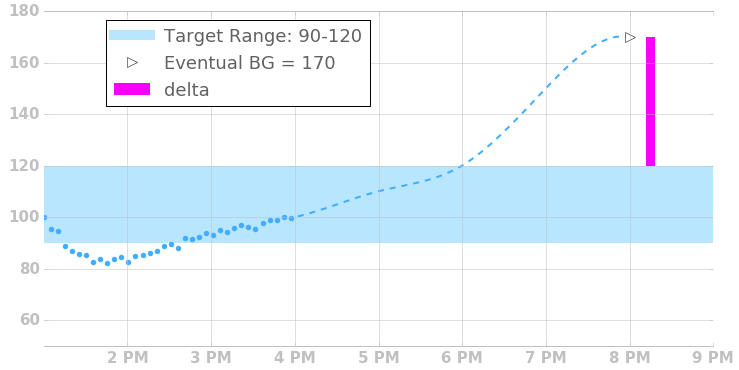
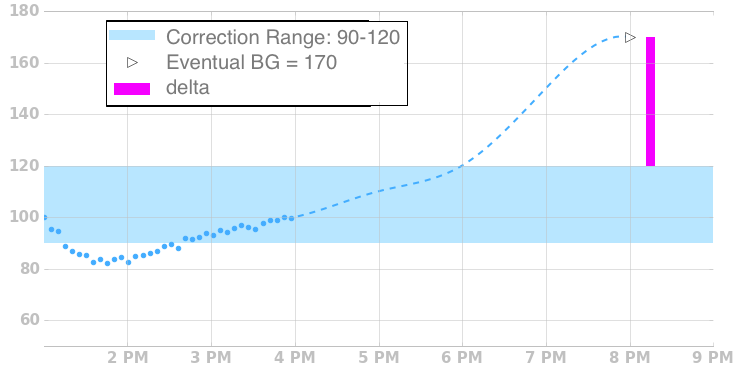
Deployed c67fe65 with MkDocs version: 0.16.2

Changed region(s): [[0.2179, 0.0595, 0.5602, 0.2676], [0.498, 0.2676, 0.5291, 0.2973], [0.498, 0.1486, 0.5291, 0.1784]]

diff --git a/operation/algorithm/temp_basal/index.html b/operation/algorithm/temp_basal/index.html
@@ -472,13 +472,13 @@
     
         <li class="main active"><a href="#temp-basal-adjustments">Temp Basal Adjustments</a></li>
         
-            <li><a href="#eventual-bg-above-target-range">Eventual BG Above Target Range</a></li>
+            <li><a href="#eventual-bg-above-correction-range">Eventual BG Above Correction Range</a></li>
         
-            <li><a href="#eventual-bg-below-target-range">Eventual BG Below Target Range</a></li>
+            <li><a href="#eventual-bg-below-correction-range">Eventual BG Below Correction Range</a></li>
         
             <li><a href="#temporary-excursion-below-range">Temporary Excursion Below Range</a></li>
         
-            <li><a href="#minimum-bg-below-minimum-bg-guard">Minimum BG Below Minimum BG Guard</a></li>
+            <li><a href="#minimum-bg-below-suspend-threshold">Minimum BG Below Suspend Threshold</a></li>
         
     
     </ul>
@@ -487,18 +487,18 @@
 
 <h1 id="temp-basal-adjustments">Temp Basal Adjustments<a class="headerlink" href="#temp-basal-adjustments" title="Permanent link">⌁</a></h1>
 <p>If blood glucose is predicted to stray outside of the desired target range, Loop will adjust the basal rate temporarily in an attempt to keep actual blood glucose in range.  To illustrate how it does this, we’ll go through a few examples.</p>
-<h3 id="eventual-bg-above-target-range">Eventual BG Above Target Range<a class="headerlink" href="#eventual-bg-above-target-range" title="Permanent link">⌁</a></h3>
+<h3 id="eventual-bg-above-correction-range">Eventual BG Above Correction Range<a class="headerlink" href="#eventual-bg-above-correction-range" title="Permanent link">⌁</a></h3>
 <p><img alt="Eventual BG Above Range" src="../img/eventual_bg_above_range.png" /></p>
-<p>When eventual BG is predicted to go above the current target range, Loop will calculate a delta from eventual bg to the midpoint of the target range.  Using the currently scheduled insulin sensitivity factor, loop calculates a temporary basal rate above your currently scheduled basal rate that would deliver, over 30 minutes, enough insulin to bring glucose levels back into range, capped at the max basal rate.</p>
-<h3 id="eventual-bg-below-target-range">Eventual BG Below Target Range<a class="headerlink" href="#eventual-bg-below-target-range" title="Permanent link">⌁</a></h3>
+<p>When eventual BG is predicted to go above the current correction range, Loop will calculate a delta from eventual bg to the midpoint of the correction range.  Using the currently scheduled insulin sensitivity factor, loop calculates a temporary basal rate above your currently scheduled basal rate that would deliver, over 30 minutes, enough insulin to bring glucose levels back into range, capped at the max basal rate.</p>
+<h3 id="eventual-bg-below-correction-range">Eventual BG Below Correction Range<a class="headerlink" href="#eventual-bg-below-correction-range" title="Permanent link">⌁</a></h3>
 <p><img alt="Eventual BG Below Range" src="../img/eventual_bg_below_range.png" /></p>
-<p>When eventual BG is predicted to go below the current target range, Loop will calculate a delta from eventual bg to the midpoint of the target range.  Using the currently scheduled insulin sensitivity factor, loop calculates a temporary basal rate below your currently scheduled basal rate that would reduce insulin delivery, over 30 minutes, enough to bring glucose levels back into range.  It will reduce delivery to zero if needed.</p>
+<p>When eventual BG is predicted to go below the current correction range, Loop will calculate a delta from eventual bg to the midpoint of the correction range.  Using the currently scheduled insulin sensitivity factor, loop calculates a temporary basal rate below your currently scheduled basal rate that would reduce insulin delivery, over 30 minutes, enough to bring glucose levels back into range.  It will reduce delivery to zero if needed.</p>
 <h3 id="temporary-excursion-below-range">Temporary Excursion Below Range<a class="headerlink" href="#temporary-excursion-below-range" title="Permanent link">⌁</a></h3>
 <p><img alt="Eventual BG Below Range" src="../img/temporary_excursion_below_range.png" /></p>
-<p>If the prediction has a temporary excursion below range, but Eventual BG is in range, Loop will revert to using your normal basal schedule, as long as Minimum BG is above the guard.</p>
-<h3 id="minimum-bg-below-minimum-bg-guard">Minimum BG Below Minimum BG Guard<a class="headerlink" href="#minimum-bg-below-minimum-bg-guard" title="Permanent link">⌁</a></h3>
+<p>If the prediction has a temporary excursion below range, but Eventual BG is in range, Loop will revert to using your normal basal schedule, as long as Minimum BG is above the suspend threshold.</p>
+<h3 id="minimum-bg-below-suspend-threshold">Minimum BG Below Suspend Threshold<a class="headerlink" href="#minimum-bg-below-suspend-threshold" title="Permanent link">⌁</a></h3>
 <p><img alt="Min BG Below Guard" src="../img/min_bg_below_guard.png" /></p>
-<p>If Minimum BG drops below Minimum BG Guard, Loop will zero temp your pump regardless of where Eventual BG is.</p></div>
+<p>If Minimum BG drops below Suspend Threshold, Loop will zero temp your pump regardless of where Eventual BG is.</p></div>
         </div>
 
         <footer class="col-md-12">

diff --git a/operation/algorithm/bolus/index.html b/operation/algorithm/bolus/index.html
@@ -472,7 +472,7 @@
     
         <li class="main active"><a href="#bolus-recommendations">Bolus Recommendations</a></li>
         
-            <li><a href="#eventual-bg-above-target-range">Eventual BG Above Target Range</a></li>
+            <li><a href="#eventual-bg-above-correction-range">Eventual BG Above Correction Range</a></li>
         
     
     </ul>
@@ -482,9 +482,9 @@
 <h1 id="bolus-recommendations">Bolus Recommendations<a class="headerlink" href="#bolus-recommendations" title="Permanent link">⌁</a></h1>
 <p>Loop also uses the forecast to generate recommendations for bolus amounts. Carbs are not directly used in bolus calculations, but rather indirectly through the forecast. After carbs are entered, the forecast is updated using the carb amounts, and then a recommendation is generated using the forecast.</p>
 <p>The forecast used for bolusing is slightly different than the forecast used for adjust temp basals in that positive BG momentum is not included.</p>
-<h2 id="eventual-bg-above-target-range">Eventual BG Above Target Range<a class="headerlink" href="#eventual-bg-above-target-range" title="Permanent link">⌁</a></h2>
+<h2 id="eventual-bg-above-correction-range">Eventual BG Above Correction Range<a class="headerlink" href="#eventual-bg-above-correction-range" title="Permanent link">⌁</a></h2>
 <p><img alt="Eventual BG Above Range" src="../img/bolus_eventual_above_range.png" /></p>
-<p>A bolus recommendation is given if Eventual BG is above Target Range.  The delta between Eventual BG and the top of the Target Range is used, along with your current Insulin Sensitivity to calculate the recommendation.</p></div>
+<p>A bolus recommendation is given if Eventual BG is above Correction Range.  The delta between Eventual BG and the top of the Correction Range is used, along with your current Insulin Sensitivity to calculate the recommendation.</p></div>
         </div>
 
         <footer class="col-md-12">

diff --git a/operation/algorithm/overview/index.html b/operation/algorithm/overview/index.html
@@ -488,7 +488,7 @@ status screen of Loop.</p>
 <p><img alt="Chart illustrating terms" src="../img/terms_graph.png" /></p>
 <dl>
 <dt>Insulin Action Duration</dt><dd>A configuration value that provides an estimate of how long insulin stays active after delivery.</dd>
-<dt>Target Range</dt>
+<dt>Correction Range</dt>
 <dd>This is the low and high BG values that Loop will attempt to keep you between.</dd>
 <dt>Predicted Glucose</dt>
 <dd>Loop makes a prediction of glucose values out for a length of time equal to your Insulin Action Duration.</dd>
@@ -496,7 +496,7 @@ status screen of Loop.</p>
 <dd>The last value of the prediction.</dd>
 <dt>Minimum BG</dt>
 <dd>The lowest glucose value at any point in time within the prediction.</dd>
-<dt>Minimum BG Guard</dt>
+<dt>Suspend Threshold</dt>
 <dd>A configuration value below which Loop will suspend all insulin delivery.<dd>
 <dt>CGM Data</dt>
 <dd>Actual glucose measurements made by a continuous glucose monitor.<dd>

diff --git a/setup/loop-settings/settings/index.html b/setup/loop-settings/settings/index.html
@@ -517,7 +517,7 @@
 </p>
 
 <h2 id="loop-version">Loop Version<a class="headerlink" href="#loop-version" title="Permanent link">⌁</a></h2>
-<p>The first graphic at the top of the Loop settings display shows the version of the software, e.g.,  Loop v1.3 in this example.  This can be helpful when working with other users of the software to know what version you are running.</p>
+<p>The first graphic at the top of the Loop settings display shows the version of the software, e.g.,  Loop v1.5 in this example.  This can be helpful when working with other users of the software to know what version you are running.</p>
 <p align="center">
 <img src="../img/loop_version.jpg" width="400">
 </p>
